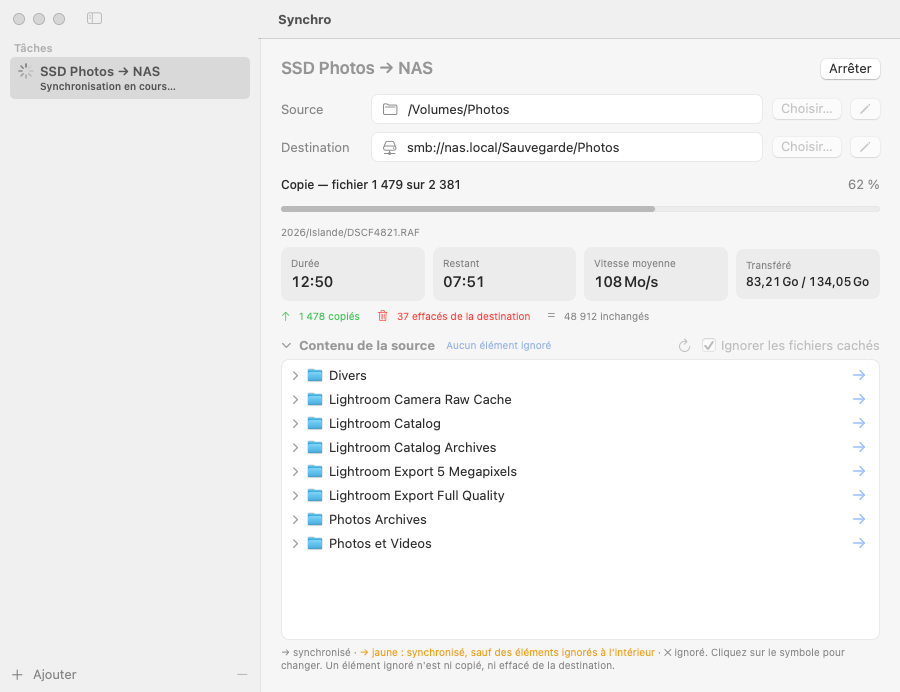
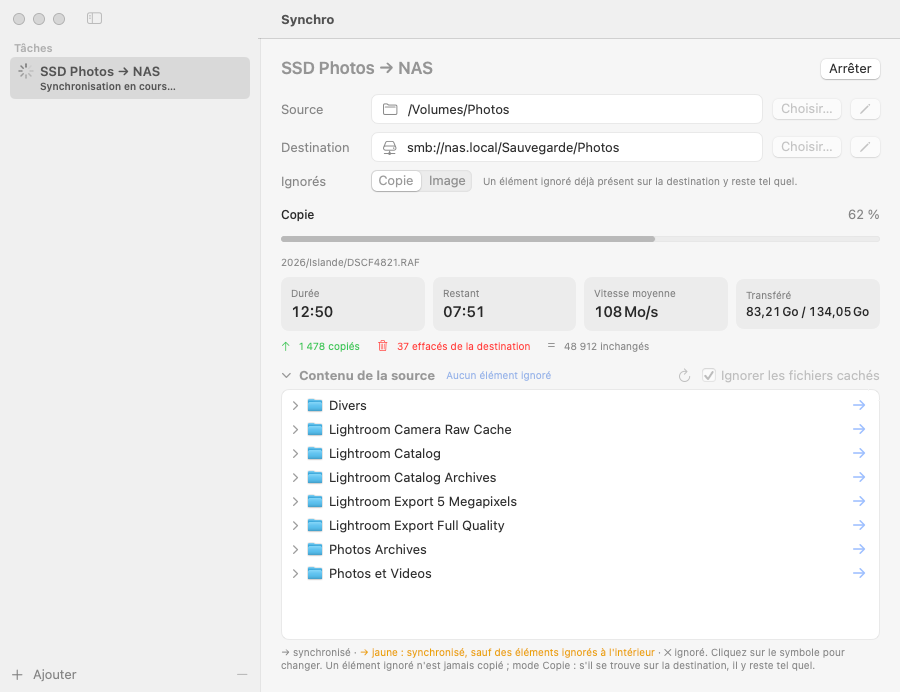
Version 1.6
Sélecteur Copie / Image par tâche (sort des éléments ignorés présents sur la destination),
liste de la source sans pagination, étape de copie sans « fichier N sur M »,
titre de la barre d'outils réaligné au pixel.

diff --git a/Sources/Synchro/Views.swift b/Sources/Synchro/Views.swift
@@ -77,7 +77,7 @@ struct ContentView: View {
             .background(WindowTitleHider())
             .toolbar {
                 ToolbarItem(placement: .navigation) {
-                    Text("Synchro").font(.headline).padding(.leading, PresetDetail.margin - 8)
+                    Text("Synchro").font(.headline).padding(.leading, PresetDetail.margin - 5)
                 }
             }
         }
@@ -213,6 +213,22 @@ struct PresetDetail: View {
             VStack(spacing: 8) {
                 PathRow(label: "Source", text: $preset.source, kind: .source, apply: setSource)
                 PathRow(label: "Destination", text: $preset.destination, kind: .destination, apply: setDestination)
+                HStack(spacing: 10) {
+                    Text("Ignorés").foregroundStyle(.secondary).frame(width: 80, alignment: .leading)
+                    Picker("Éléments ignorés déjà présents sur la destination", selection: $preset.mirrorIgnored) {
+                        Text("Copie").tag(false)
+                        Text("Image").tag(true)
+                    }
+                    .pickerStyle(.segmented)
+                    .labelsHidden()
+                    .fixedSize()
+                    .help("Copie : un élément ignoré déjà présent sur la destination y reste. Image : il en est effacé, dossier compris.")
+                    Text(preset.mirrorIgnored
+                         ? "Un élément ignoré est effacé de la destination s'il s'y trouve, dossier compris."
+                         : "Un élément ignoré déjà présent sur la destination y reste tel quel.")
+                        .font(.caption).foregroundStyle(.secondary).lineLimit(1)
+                    Spacer()
+                }
             }
             .disabled(locked)
 
@@ -259,11 +275,14 @@ struct PresetDetail: View {
                         .id(preset.source + "|\(preset.ignoreHidden)")
                     (Text("→ synchronisé · ")
                      + Text("→ jaune : synchronisé, sauf des éléments ignorés à l'intérieur").foregroundColor(TreeRow.partialColor)
-                     + Text(" · ✕ ignoré. Cliquez sur le symbole pour changer. Un élément ignoré n'est ni copié, ni effacé de la destination."))
+                     + Text(" · ✕ ignoré. Cliquez sur le symbole pour changer. Un élément ignoré n'est jamais copié ; ")
+                     + Text(preset.mirrorIgnored
+                            ? "mode Image : s'il se trouve sur la destination, il en est effacé, dossier compris."
+                            : "mode Copie : s'il se trouve sur la destination, il y reste tel quel."))
                         .font(.caption).foregroundStyle(.secondary)
-                        // Deux lignes au plus, servies avant la liste. Surtout pas de fixedSize ici : la hauteur
+                        // Trois lignes au plus, servies avant la liste. Surtout pas de fixedSize ici : la hauteur
                         // minimale de la fenêtre se calculerait sur un texte replié à l'extrême, et tout déborderait.
-                        .lineLimit(2)
+                        .lineLimit(3)
                         .layoutPriority(1)
                 }
             }
@@ -525,10 +544,7 @@ struct StatusView: View {
         case .preparing: return "Préparation…"
         case .deleting: return "Suppression — \(p.deleteItemsDone.formatted()) / \(p.deleteItemsTotal.formatted())"
         case .folders: return "Création des dossiers…"
-        case .copying:
-            return p.filesTotal > 0
-                ? "Copie — fichier \(p.fileIndex.formatted()) sur \(p.filesTotal.formatted())"
-                : "Copie"
+        case .copying: return "Copie"
         case .verifying: return "Vérification des dates…"
         case .finished: return "Finalisation…"
         }
@@ -759,6 +775,10 @@ struct PreviewSheet: View {
             if !plan.destinationExists {
                 note("Le dossier de destination n'existe pas encore : il sera créé.", "folder.badge.plus", .secondary)
             }
+            if context?.mirrorIgnored == true {
+                note("Mode Image : les éléments ignorés qui se trouvent sur la destination sont effacés avec le reste.",
+                     "xmark.bin", .secondary)
+            }
             ForEach(plan.openCatalogs, id: \.self) { catalog in
                 note("Le catalogue Lightroom « \((catalog as NSString).lastPathComponent) » semble ouvert. Quittez Lightroom puis relancez l'analyse pour que sa copie soit fiable.",
                      "exclamationmark.triangle.fill", .orange)
@@ -922,9 +942,6 @@ struct TreeChildren: View {
     @Binding var preset: Preset
 
     @Local private var listing = TreeListing.loading
-    @Local private var limit = TreeChildren.step
-    private static let step = 300
-
     private var indent: CGFloat { CGFloat(depth) * 18 + 34 }
 
     var body: some View {
@@ -940,20 +957,8 @@ struct TreeChildren: View {
                 message("Accès refusé par macOS. Autorisez Synchro dans Réglages Système → Confidentialité et sécurité → Fichiers et dossiers.")
             case .items(let all):
                 if all.isEmpty && depth == 0 { message("Ce dossier est vide.") }
-                // Un élément ignoré reste toujours visible, même au-delà de la limite, pour pouvoir le rétablir.
-                let ignored = Set(preset.excludes.map(Scanner.excludeKey))
-                let visible = all.enumerated()
-                    .filter { $0.offset < limit || ignored.contains(Scanner.excludeKey($0.element.rel)) }
-                    .map(\.element)
-                ForEach(visible) { item in
+                ForEach(all) { item in
                     TreeRow(item: item, depth: depth, inherited: inherited, preset: $preset)
-                }
-                if all.count > visible.count {
-                    Button("Afficher les \(min(Self.step, all.count - visible.count).formatted()) suivants sur \((all.count - visible.count).formatted()) restants") {
-                        limit += Self.step
-                    }
-                    .buttonStyle(.link).font(.caption)
-                    .padding(.leading, indent).padding(.vertical, 4)
                 }
             }
         }

diff --git a/Sources/Synchro/Model.swift b/Sources/Synchro/Model.swift
@@ -11,6 +11,9 @@ struct Preset: Identifiable, Codable, Hashable {
     var destination: String
     var excludes: [String] = []
     var ignoreHidden = true
+    /// Sort des éléments ignorés déjà présents sur la destination : en mode « copie » (faux) ils y restent ;
+    /// en mode « image » (vrai) ils en sont effacés, dossiers compris.
+    var mirrorIgnored = false
 
     // État de la dernière synchronisation réussie : il ne fait pas partie des réglages modifiables.
     var lastSync: Date?
@@ -47,6 +50,7 @@ struct Preset: Identifiable, Codable, Hashable {
         destination = try c.decodeIfPresent(String.self, forKey: .destination) ?? ""
         excludes = try c.decodeIfPresent([String].self, forKey: .excludes) ?? []
         ignoreHidden = try c.decodeIfPresent(Bool.self, forKey: .ignoreHidden) ?? true
+        mirrorIgnored = try c.decodeIfPresent(Bool.self, forKey: .mirrorIgnored) ?? false
         lastSync = try c.decodeIfPresent(Date.self, forKey: .lastSync)
         syncedDestination = try c.decodeIfPresent(String.self, forKey: .syncedDestination)
         syncedVolume = try c.decodeIfPresent(String.self, forKey: .syncedVolume)
@@ -89,6 +93,7 @@ struct PreviewContext {
     var source: String
     var destination: String
     var resolvedDestination: String
+    var mirrorIgnored = false
 }
 
 /// État affiché après une analyse ou une synchronisation terminée.
@@ -459,7 +464,9 @@ final class AppModel: ObservableObject {
                 }
                 var dstScan = ScanResult()
                 if dstExists {
-                    dstScan = try Scanner.scan(root: dst, excludes: excludes, ignoreHidden: preset.ignoreHidden, flagHides: false) {
+                    // Mode image : la destination est lue sans exclusion, ce qui y est ignoré n'y a pas sa place.
+                    dstScan = try Scanner.scan(root: dst, excludes: preset.mirrorIgnored ? [] : excludes,
+                                               ignoreHidden: preset.ignoreHidden, flagHides: false) {
                         status("Analyse de la destination — \($0.formatted()) éléments")
                     }
                 }
@@ -483,8 +490,8 @@ final class AppModel: ObservableObject {
                    let now = roots.dstVolume?.identity, now != volume {
                     plan.volumeWarning = "La destination ne se trouve plus sur le même volume qu'à la dernière synchronisation. Vérifiez que le bon disque ou le bon partage est connecté."
                 }
-                let context = PreviewContext(taskName: preset.name, source: src.path,
-                                             destination: preset.destination, resolvedDestination: dst.path)
+                let context = PreviewContext(taskName: preset.name, source: src.path, destination: preset.destination,
+                                             resolvedDestination: dst.path, mirrorIgnored: preset.mirrorIgnored)
                 try Task.checkCancellation()
                 let ready = plan
 

diff --git a/Tests/SynchroCoreTests/EngineTests.swift b/Tests/SynchroCoreTests/EngineTests.swift
@@ -1095,3 +1095,32 @@ private func mirrorIsExact(_ box: Sandbox) throws -> Bool {
     #expect(result.progress.copyElapsed <= result.progress.elapsed)
     #expect(result.averageSpeed > 0)
 }
+
+/// Mode « image » : la destination est analysée sans exclusion, donc un élément ignoré qui s'y trouve est effacé.
+@Test func modeImageEffaceLesElementsIgnoresDeLaDestination() throws {
+    let box = try Sandbox()
+    try box.write("a/x.txt", in: box.src, mtime: old)
+    try box.write("a/x.txt", in: box.dst, mtime: old)
+    try box.write("Rejets/y.txt", in: box.src)
+    try box.write("Rejets/y.txt", in: box.dst)
+    try box.write("Rejets/z.txt", in: box.dst)
+    try box.write("a/brouillon.txt", in: box.dst)
+    let ex: Set<String> = [Scanner.excludeKey("Rejets"), Scanner.excludeKey("a/brouillon.txt")]
+    let s = try Scanner.scan(root: box.src, excludes: ex, ignoreHidden: true) { _ in }
+
+    // Mode copie : rien de ce qui est ignoré n'est touché.
+    let dCopie = try Scanner.scan(root: box.dst, excludes: ex, ignoreHidden: true, flagHides: false) { _ in }
+    let copie = Scanner.plan(source: s, destination: dCopie, options: PlanOptions())
+    #expect(copie.deletes.isEmpty && copie.copies.isEmpty && copie.unchanged == 1)
+
+    // Mode image : le dossier ignoré et le fichier ignoré sont effacés de la destination.
+    let dImage = try Scanner.scan(root: box.dst, excludes: [], ignoreHidden: true, flagHides: false) { _ in }
+    let image = Scanner.plan(source: s, destination: dImage, options: PlanOptions())
+    #expect(image.copies.isEmpty && image.unchanged == 1)
+    #expect(Set(image.deletes.map(\.rel)) == ["Rejets", "a/brouillon.txt"])
+    #expect(image.deletes.first { $0.rel == "Rejets" }?.files == 2)
+    #expect(image.filesToDelete == 3)
+    box.run(image, acknowledged: true)
+    #expect(!box.exists("Rejets", in: box.dst) && !box.exists("a/brouillon.txt", in: box.dst))
+    #expect(box.exists("a/x.txt", in: box.dst) && box.exists("Rejets/y.txt", in: box.src))
+}

diff --git a/Tests/SynchroAppTests/ModelTests.swift b/Tests/SynchroAppTests/ModelTests.swift
@@ -316,6 +316,30 @@ struct ImportExportTests {
         try Data("pas du JSON".utf8).write(to: file)
         #expect(throws: SyncError.self) { try bench.model.importPresets(from: file) }
     }
+
+    /// Le mode Image se lit dans le fichier des tâches, et une tâche d'avant cette option est en mode Copie.
+    @Test func modeImageDeLaTache() async throws {
+        let bench = try Bench(presetsJSON: """
+        [{"name": "Ancienne", "source": "/a", "destination": "/b"},
+         {"name": "Image", "source": "/a", "destination": "/b", "mirrorIgnored": true}]
+        """)
+        #expect(bench.model.presets.map(\.mirrorIgnored) == [false, true])
+
+        let bench2 = try Bench()
+        try bench2.write("garde.txt", in: bench2.src, mtime: old)
+        try bench2.write("garde.txt", in: bench2.dst, mtime: old)
+        try bench2.write("Rejets/r.txt", in: bench2.src)
+        try bench2.write("Rejets/r.txt", in: bench2.dst)
+        bench2.model.presets[0].excludes = ["Rejets"]
+        bench2.model.presets[0].mirrorIgnored = true
+        try await bench2.analyze()
+        #expect(bench2.model.context?.mirrorIgnored == true)
+        #expect(bench2.model.plan?.deletes.map(\.rel) == ["Rejets"])
+        try await bench2.confirm(acknowledged: true)
+        #expect(bench2.outcome?.result?.succeeded == true)
+        #expect(!bench2.fm.fileExists(atPath: bench2.dst.appendingPathComponent("Rejets").path))
+        #expect(bench2.read("Rejets/r.txt", in: bench2.src) != nil)
+    }
 }
 
 // MARK: - Mise à jour

diff --git a/Sources/Synchro/App.swift b/Sources/Synchro/App.swift
@@ -89,6 +89,7 @@ enum About {
 /// `--plan` seul n'écrit rien. `--run` exécute le plan aussitôt, sans aperçu à confirmer, avec les garde-fous
 /// du moteur ; `--confirmer` tient lieu de la case à cocher exigée pour une situation inhabituelle.
 /// `--comparer-tout` compare le contenu de tous les fichiers qui paraissent inchangés.
+/// `--image` efface de la destination les éléments ignorés qui s'y trouvent (mode « image » de l'app).
 /// `--repere-copie` compare aussi ceux qui ont été touchés après l'écriture de leur copie de destination ;
 /// à réserver aux destinations locales : un NAS ne date pas ses copies de façon comparable, et tout y passerait.
 /// Les fichiers cachés sont toujours ignorés et aucun journal n'est écrit.
@@ -115,7 +116,7 @@ enum CLI {
             }
             let s = try Scanner.scan(root: src, excludes: excludes, ignoreHidden: true) { _ in }
             let d = dstExists
-                ? try Scanner.scan(root: dst, excludes: excludes, ignoreHidden: true, flagHides: false) { _ in }
+                ? try Scanner.scan(root: dst, excludes: args.contains("--image") ? [] : excludes, ignoreHidden: true, flagHides: false) { _ in }
                 : ScanResult()
             var options = PlanOptions(reference: args.contains("--repere-copie") ? .destinationCopy : .none,
                                       verifyAll: args.contains("--comparer-tout"))

diff --git a/README.md b/README.md
@@ -16,8 +16,8 @@ Application macOS native (SwiftUI) qui fait un **miroir** d'un dossier ou d'un d
 
 - **Tâches** : chaque tâche garde sa source, sa destination et ses éléments ignorés. Ajoutez-en autant que voulu. Au premier lancement, une tâche d'exemple est proposée : remplacez sa source et sa destination par les vôtres.
 - **Aperçu avant d'agir** : Synchro analyse d'abord, puis liste ce qui sera effacé (par dossier, avec le nombre de fichiers et la taille) et ce qui sera copié. Rien n'est modifié sans confirmation.
-- **Suivi en direct** : étape en cours, fichier en cours (« fichier 1 479 sur 2 381 » et son nom), durée, temps restant, vitesse moyenne depuis le début de la copie, volume transféré, nombre de fichiers copiés, effacés, inchangés et en échec.
-- **Éléments ignorés** : dans l'arborescence de la source, cliquez sur la flèche → d'un dossier ou d'un fichier pour la changer en ✕. Un élément ignoré n'est ni copié, ni effacé de la destination, même si son dossier parent disparaît de la source. Un dossier qui reste synchronisé mais contient des éléments ignorés porte une flèche jaune et leur nombre. Le lien « N éléments ignorés » en donne la liste complète.
+- **Suivi en direct** : étape en cours, nom du fichier en cours, durée, temps restant, vitesse moyenne depuis le début de la copie, volume transféré, nombre de fichiers copiés, effacés, inchangés et en échec.
+- **Éléments ignorés** : dans l'arborescence de la source, cliquez sur la flèche → d'un dossier ou d'un fichier pour la changer en ✕. Un élément ignoré n'est jamais copié ; s'il se trouve déjà sur la destination, le sélecteur **Copie / Image** de la tâche décide de son sort : en mode **Copie**, il y reste tel quel, même si son dossier parent disparaît de la source ; en mode **Image**, il en est effacé, dossier compris, pour que la destination soit l'image exacte de ce qui est synchronisé. Un dossier qui reste synchronisé mais contient des éléments ignorés porte une flèche jaune et leur nombre. Le lien « N éléments ignorés » en donne la liste complète.
 - **Fichiers cachés** ignorés (désactivable par tâche). Les fichiers système (`.DS_Store`, `.Spotlight-V100`, `.Trashes`, `._*`…) ne sont jamais copiés.
 - **Destination SMB** : `smb://serveur/partage/dossier`. Le partage est connecté au besoin ; le mot de passe vient du Trousseau macOS et n'est jamais stocké par l'app.
 - **Glisser-déposer** d'un dossier ou d'un alias sur les lignes Source et Destination.
@@ -152,7 +152,7 @@ Le binaire accepte un mode ligne de commande, pour examiner un plan sans interfa
 build/Synchro.app/Contents/MacOS/Synchro --plan <source> <destination> [--exclude <chemin relatif>]…
 ```
 
-Cette commande affiche le plan sans rien écrire. Avec `--run`, le plan est exécuté tout de suite, **sans aperçu ni demande de confirmation** (les suppressions sont définitives) ; `--confirmer` remplace la case à cocher exigée pour une situation inhabituelle, et `--comparer-tout` compare le contenu de tous les fichiers qui paraissent inchangés. Dans ce mode, les fichiers cachés sont toujours ignorés et aucun journal n'est écrit.
+Cette commande affiche le plan sans rien écrire. Avec `--run`, le plan est exécuté tout de suite, **sans aperçu ni demande de confirmation** (les suppressions sont définitives) ; `--confirmer` remplace la case à cocher exigée pour une situation inhabituelle, `--comparer-tout` compare le contenu de tous les fichiers qui paraissent inchangés, et `--image` efface de la destination les éléments ignorés qui s'y trouvent. Dans ce mode, les fichiers cachés sont toujours ignorés et aucun journal n'est écrit.
 
 ## Organisation
 

diff --git a/CHANGELOG.md b/CHANGELOG.md
@@ -1,5 +1,13 @@
 # Changements
 
+## 1.6 — 2026-10-11
+### Ajouté
+- Sélecteur **Copie / Image** par tâche, sous la ligne Destination : en mode Copie (le comportement habituel), un élément ignoré déjà présent sur la destination y reste ; en mode Image, il en est effacé, dossier compris. L'aperçu le rappelle. En ligne de commande : `--image`.
+### Modifié
+- La liste de la source affiche tous les éléments d'un dossier d'un coup, sans bouton « Afficher les 300 suivants ».
+- L'étape de copie n'affiche plus « fichier N sur M » ; le nom du fichier en cours reste visible.
+- Titre « Synchro » de la barre d'outils réaligné au pixel sur le contenu.
+
 ## 1.5 — 2026-10-11
 ### Ajouté
 - Mise à jour proposée : au lancement, au plus une fois par jour, Synchro vérifie sur GitHub si une version plus récente est publiée et propose de l'installer en un clic (téléchargement, contrôle de la signature Developer ID, remplacement de l'app dans son dossier, relance). Menu Synchro → « Rechercher une mise à jour… » pour vérifier tout de suite.
